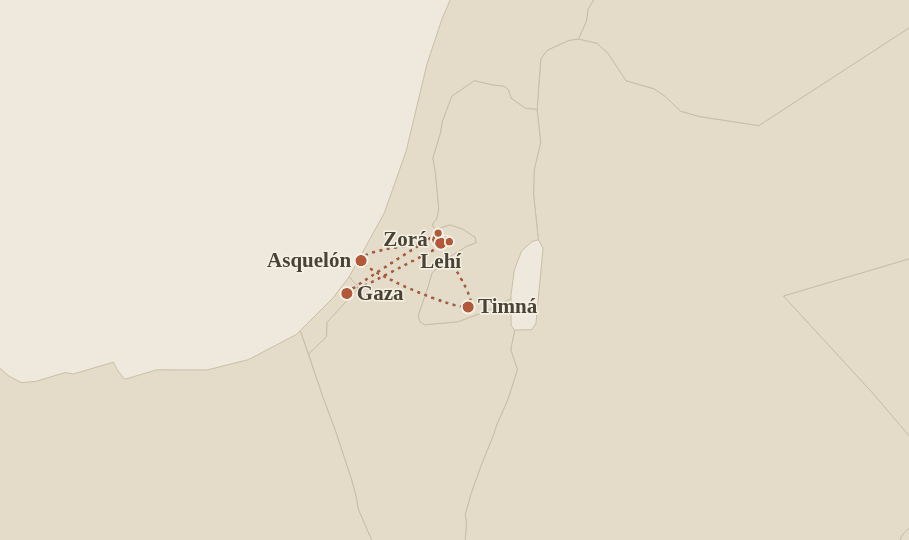
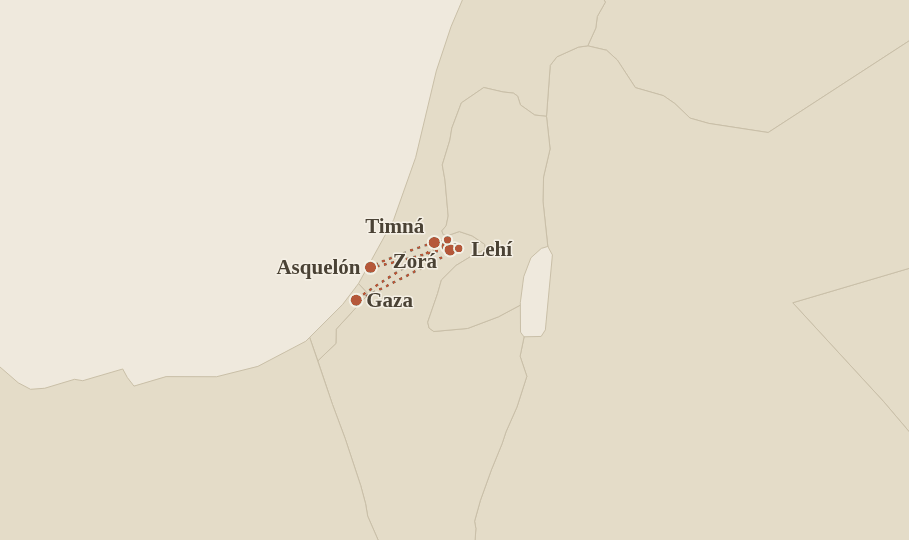
Baja a Jacob a Egipto y difumina las fechas sin documentar (#9)
* Baja a Jacob a Egipto, y con él cuatro lugares mal situados

La ficha de Jacob contaba su vida hasta las doce tribus y ahí se paraba.
Faltaba el final: bajó a Egipto ya anciano para reunirse con José, se
estableció en Gosén y allí murió a los ciento cuarenta y siete años.

En el mapa sí estaba Gosén, pero puesto en Canaán, a un paso de
Beer-Seba. Hay varios Gosén en las Escrituras y se coló el de Judá.
Perspicacia sitúa el de Israel «en la parte oriental del delta del Nilo,
en las proximidades de Wadi Tumilat», que está a cuatrocientos kilómetros
del que había.

Buscando si quedaban más del mismo tipo aparecieron tres. Timná caía en
la montaña de Judá en vez del valle de Soreq, a cuarenta y cinco
kilómetros del pueblo de Sansón. Libná era el campamento del desierto,
que nadie sabe dónde estuvo, en lugar de la ciudad que tomó Josué «a unos
8 Km. al NNE. de Lakís»: ciento ochenta kilómetros de diferencia. Y Mizpá
era la región del Hermón en vez de la ciudad de Benjamín donde Samuel
reunió a Israel, otros ciento sesenta.

Sale también el Etam del éxodo. Perspicacia conoce tres Etam y los tres
están en Judá; el del desierto no se puede situar, así que se va con
Kerit y Carcor.

Claude-Session: https://claude.ai/code/session_01JHvLDDGnVRZVayoq2rmCHi

* Difumina las puntas de las fechas que no están documentadas

La barra rayada no se veía, y el motivo no era la trama sino la escala:
la línea abarca cuatro mil ciento veintiséis años, así que hasta una vida
[…]

diff --git a/index.html b/index.html
@@ -476,18 +476,29 @@ class Component extends DCLogic {
           display: 'flex', flexDirection: 'column', gap: '5px', backdropFilter: 'blur(4px)',
         },
         timelineTrackStyle: { position: 'relative', height: '6px', borderRadius: '999px', background: 'oklch(0.85 0.02 70)' },
-        timelineFillStyle: single.life ? {
-          position: 'absolute', top: 0, bottom: 0,
-          left: `${Math.max(0, (single.life.start - TIMELINE_MIN) / TIMELINE_SPAN * 100)}%`,
-          width: `${Math.max(1.2, (single.life.end - single.life.start) / TIMELINE_SPAN * 100)}%`,
-          borderRadius: '999px',
-          // Una barra maciza afirma unas fechas documentadas. Cuando solo son una
-          // estimación —de bastantes personajes las publicaciones no dan año—, se
-          // raya, para que la tarjeta no prometa más precisión de la que tiene.
-          background: single.life.approx
-            ? `repeating-linear-gradient(115deg, ${primary} 0 3px, transparent 3px 6px)`
-            : primary,
-        } : { display: 'none' },
+        timelineFillStyle: single.life ? (() => {
+          const izq = Math.max(0, (single.life.start - TIMELINE_MIN) / TIMELINE_SPAN * 100);
+          const ancho = Math.max(1.2, (single.life.end - single.life.start) / TIMELINE_SPAN * 100);
+          const base = { position: 'absolute', top: 0, bottom: 0, borderRadius: '999px' };
+          // Una barra maciza afirma unas fechas documentadas. De bastantes
+          // personajes las publicaciones no dan año, y esa barra no debería
+          // prometer más precisión de la que hay.
+          //
+          // La primera versión la rayaba, y no servía: la línea abarca 4.126
+          // años, así que hasta una vida larga ocupa el 2 % del ancho y la trama
+          // no tiene sitio donde resolverse. Lo que sí se lee a cuatro píxeles es
+          // que los extremos no cortan en seco, sino que se desvanecen en la
+          // pista: la barra deja de decir «de aquí a aquí» y pasa a decir «por
+          // aquí». Se ensancha unos píxeles a cada lado para que el degradado
+          // tenga dónde apagarse sin comerse el centro.
+          if (!single.life.approx) return { ...base, left: `${izq}%`, width: `${ancho}%`, background: primary };
+          return {
+            ...base,
+            left: `calc(${izq}% - 7px)`,
+            width: `calc(${ancho}% + 14px)`,
+            background: `linear-gradient(90deg, transparent 0%, ${primary} 34%, ${primary} 66%, transparent 100%)`,
+          };
+        })() : { display: 'none' },
         timelineEndsStyle: { display: 'flex', justifyContent: 'space-between', fontSize: '8px', color: 'oklch(0.55 0.02 55)', fontWeight: 700 },
       };
     })() : null;
